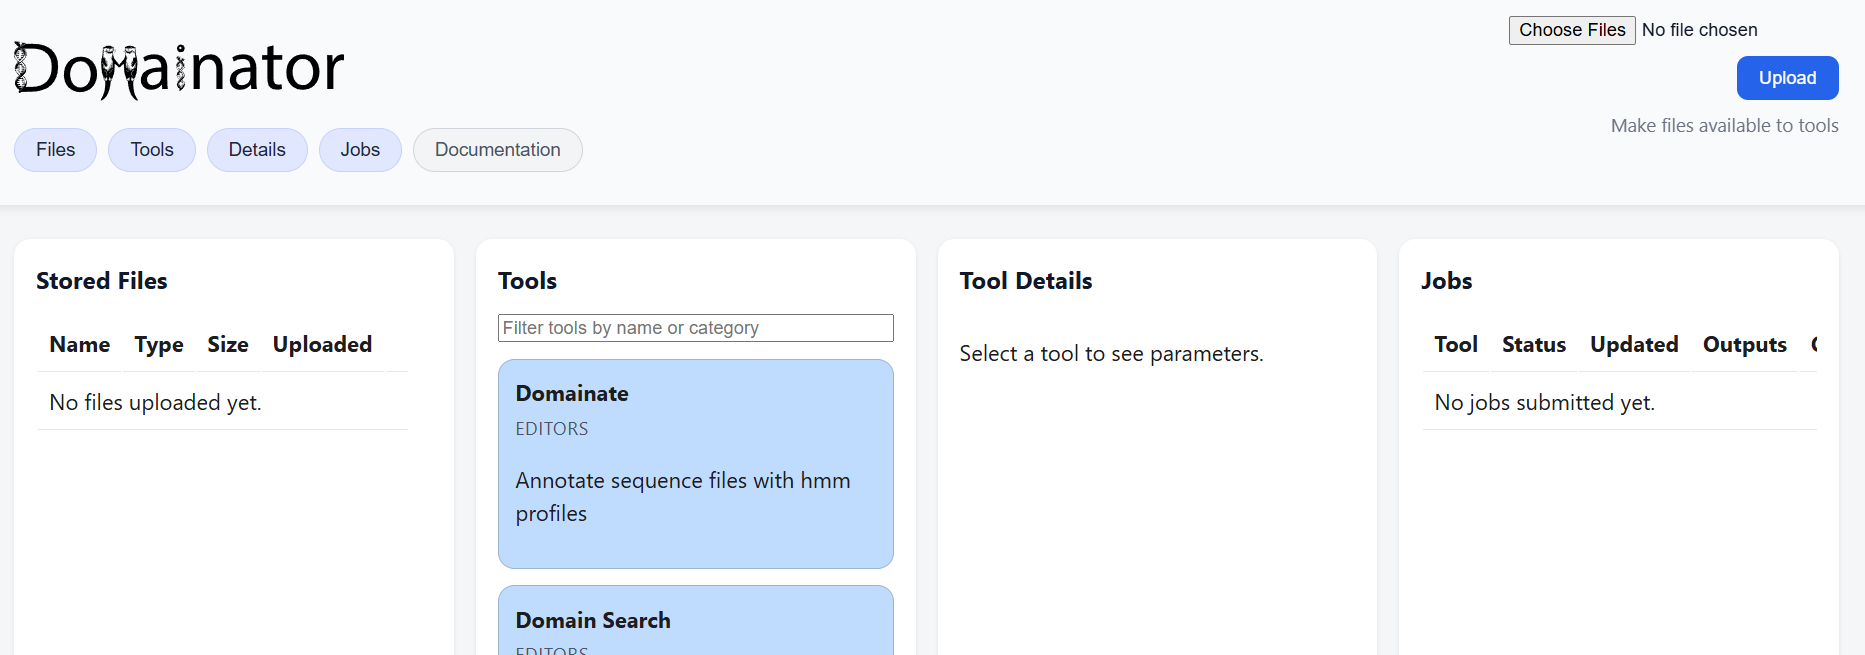
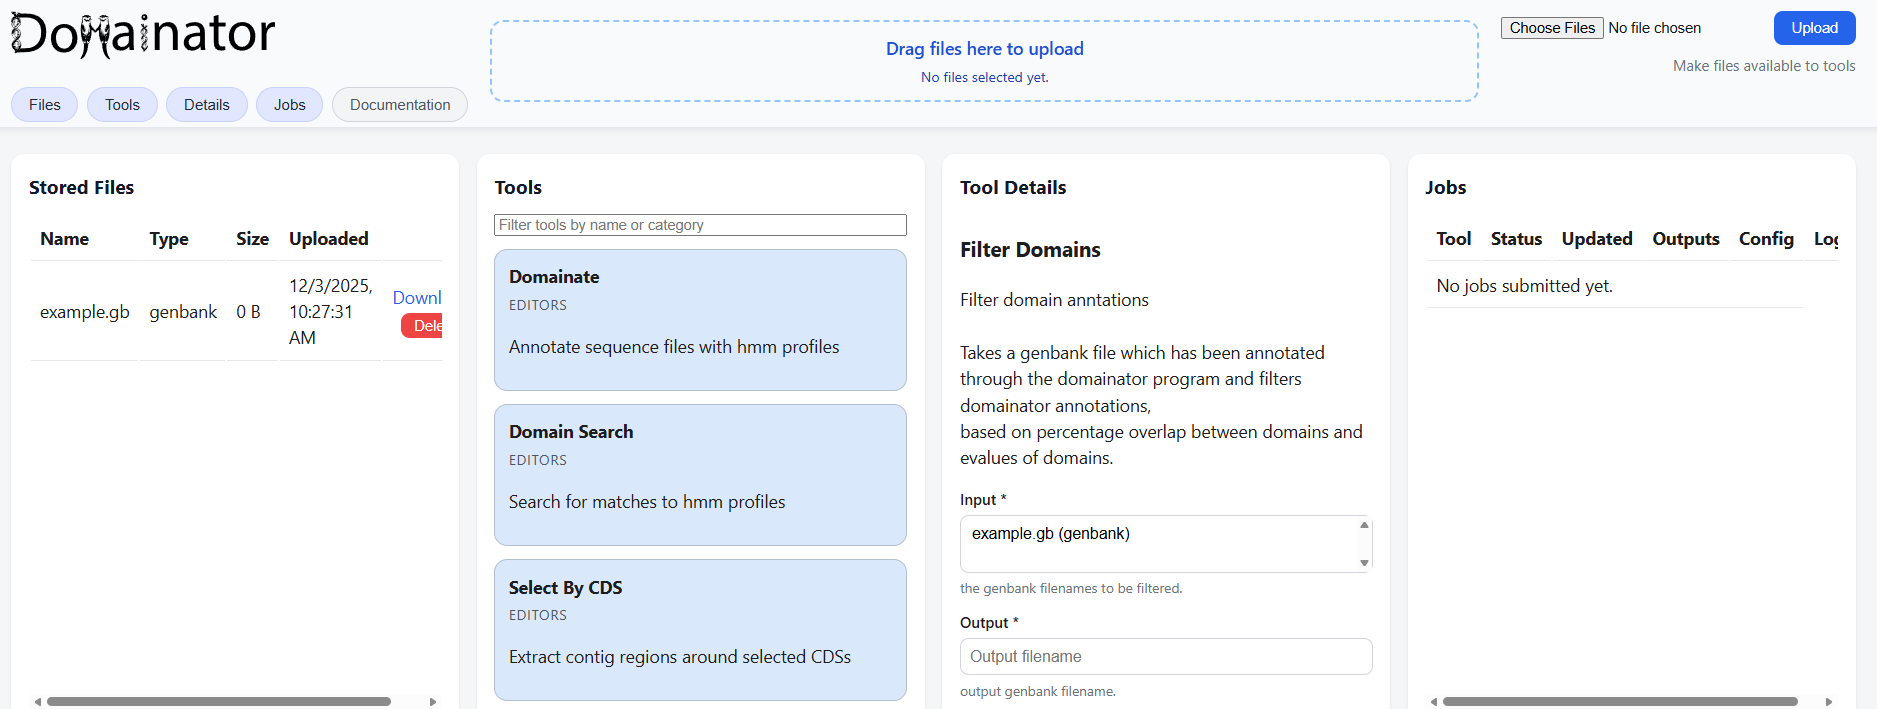
polish top bar and update screenshots

diff --git a/src/domainator/server/static/styles.css b/src/domainator/server/static/styles.css
@@ -13,11 +13,11 @@ body {
 
 .top-bar {
   position: relative;
-  display: flex;
-  flex-wrap: wrap;
+  display: grid;
+  grid-template-columns: minmax(220px, auto) minmax(260px, 1fr) minmax(260px, auto);
   align-items: center;
-  gap: 1rem;
-  padding: 1rem 1.5rem;
+  gap: 1.25rem;
+  padding: 0.25rem 1.5rem;
   background-color: #f9fafb;
   color: #111827;
   width: 100%;
@@ -26,37 +26,28 @@ body {
 }
 
 .top-bar-left {
-  flex: 1 1 240px;
+  display: flex;
+  flex-direction: column;
+  gap: 0.6rem;
   min-width: 0;
-  order: 0;
 }
 
 .top-bar-controls {
-  order: 2;
-  flex: 0 0 100%;
   display: flex;
   flex-wrap: wrap;
   justify-content: flex-start;
-  align-items: flex-end;
   gap: 0.5rem;
   margin: 0;
-  margin-top: 0.25rem;
-  align-self: flex-end;
 }
 
 .top-bar-right {
-  order: 1;
-  position: sticky;
-  top: 1rem;
-  flex: 0 1 320px;
-  min-width: 240px;
   display: flex;
   flex-direction: column;
-  align-items: stretch;
+  align-items: flex-end;
+  justify-content: center;
+  min-width: 240px;
   gap: 0.5rem;
   margin-left: auto;
-  align-self: stretch;
-  justify-content: flex-end;
 }
 
 .upload-controls {
@@ -425,6 +416,22 @@ body {
 }
 
 @media (max-width: 960px) {
+  .top-bar {
+    display: flex;
+    flex-direction: column;
+    align-items: stretch;
+    gap: 1rem;
+  }
+
+  .top-bar-left {
+    width: 100%;
+  }
+
+  .top-bar-right {
+    width: 100%;
+    align-items: stretch;
+  }
+
   .upload-controls {
     flex-direction: column;
     align-items: stretch;
@@ -435,6 +442,10 @@ body {
   }
 
   .upload-hint {
+    text-align: left;
+  }
+
+  #messages {
     text-align: left;
   }
 }

diff --git a/README.md b/README.md
@@ -6,6 +6,8 @@ Version 0.8.0
 
 A flexible and modular software suite for domain-based gene neighborhood and protein search, extraction, and clustering.
 
+Domainator can be run as browser-based GUI, command line tools, or as a Python library.
+
 # Contents
  - [Overview and key concepts](#Overview-and-key-concepts)
  - [Program descriptions](#Program-descriptions)
@@ -55,6 +57,8 @@ __Comparison programs__  generate pairwise score or distance matrices between co
 __Plotting programs__ convert data into formats appropriate for graphical visualization, for example converting score matrices and tabular metadata into trees or similarity networks which can be viewed in Cytoscape  or other external visualization tools, depending on the data type.
 
 Finally, there are few programs that defy categorization, these programs perform functions such as downloading data from NCBI or UniProt, converting files between formats, or generating profile-profile alignments.
+
+![Screenshot of domainator GUI](docs/media/server_screenshot.png)
 
 ## Overview of Domainator components
 ![Overview of Domainator components image](docs/media/Overview_diagram.png)
